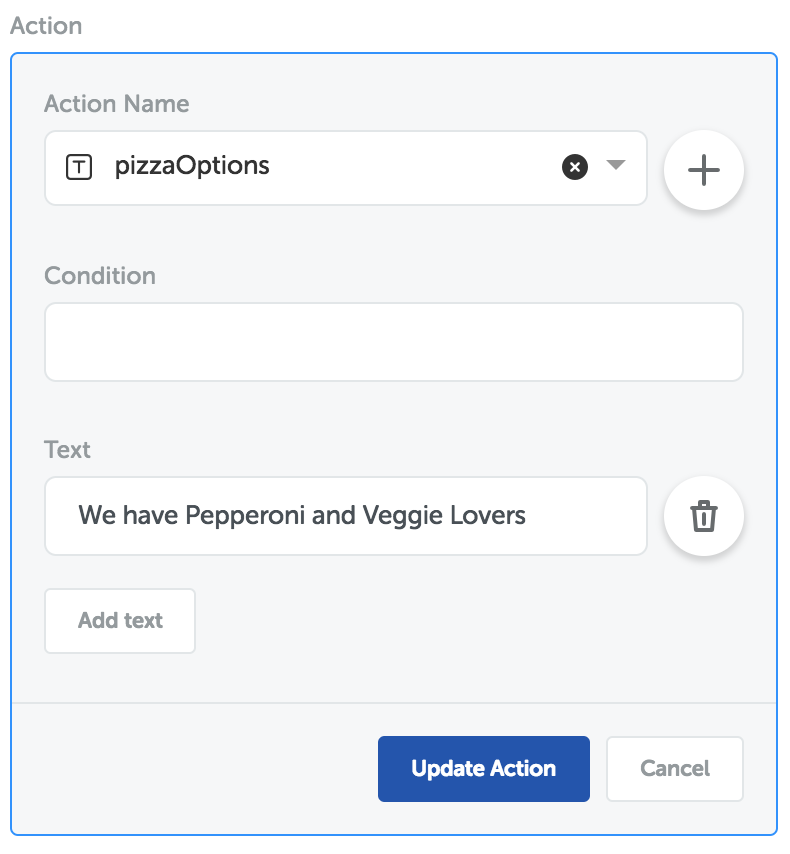
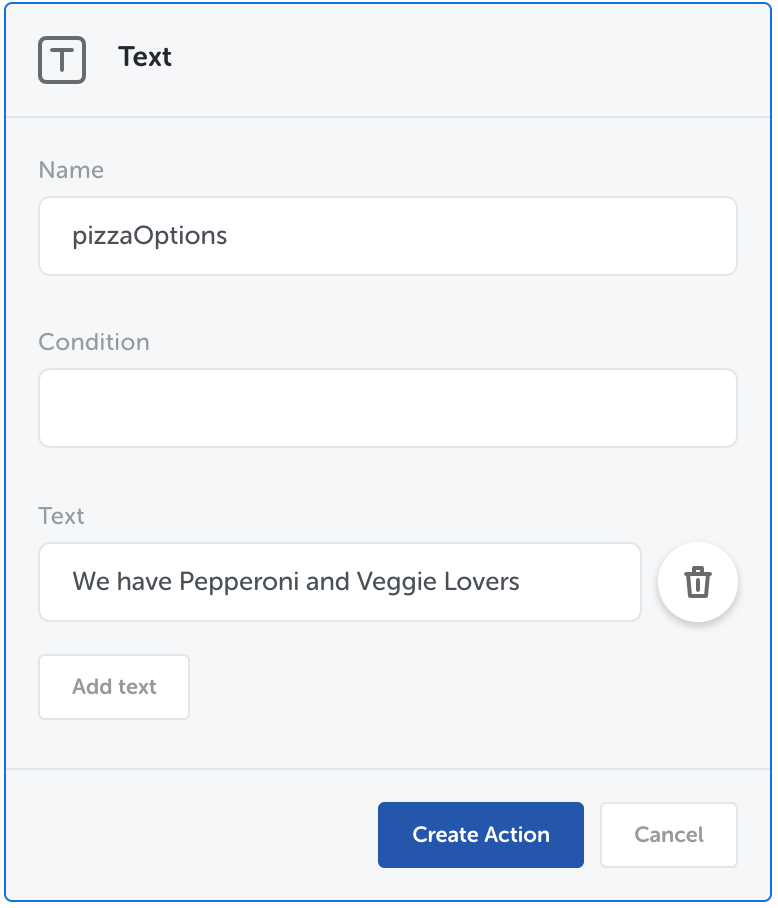
docs: Bot Studio tutorial update (2018-10-10) (#14)
* docs: NL Studio tutorial update

* docs(bot-studio): fixed images

* docs: fixed carousel sample

diff --git a/gatsby-config.js b/gatsby-config.js
@@ -69,7 +69,6 @@ module.exports = {
             resolve: 'gatsby-remark-images',
             options: {
               maxWidth: 720,
-              quality: 90,
               linkImagesToOriginal: false,
               wrapperStyle: 'margin-top: 1.5rem; margin-bottom: 1.5rem'
             }

diff --git a/docs/tutorial/bot-studio.md b/docs/tutorial/bot-studio.md
@@ -66,8 +66,7 @@ Next, click "Create Flow" button to create a flow and name it `fallback`. This f
 
 ### Create intent fallback
 
-After created `fallback` flow, we will enter intent by pressing the "Intents" tab on the sub-menu (picture below).
-Remove intent by pressing "more" symbol and click on "Delete" text. Next, we will create a new intent for `fallback`.
+After created `fallback` flow, we will enter intent by pressing the "Intents" tab on the sub-menu (picture below). Then, we will create a new intent for `fallback`.
 
 ![bse-10](/images/tutorial/bot-studio/bse-10.png)
 
@@ -81,7 +80,7 @@ So, your created intent will show as below
 
 ### Create a state init
 
-After the above step, we will create state named `init`. Delete previously provided state by pressing state and clicking "Delete". Then, click the "+" button at the bottom right of your page.
+After the above step, we will create state named `init`. Then, click the "+" button at the bottom right of your page.
 
 Fill state with name `init` on "Overview" tab and set a state to initial state and end state (as shown below). "Initial state" function is useful for making init state as first checked for flow and "end state" is useful for making init state as the last.
 
@@ -141,7 +140,7 @@ This intent has a text type and uses NLU we created. Select NLUs that created in
 
 #### Create a state init in the flow order
 
-Similar with `init` state in `fallback` flow, we must create `init` state as first state.
+Similar with `init` state in `fallback` flow, we must create `init` state as initial state.
 
 ![bse-21](/images/tutorial/bot-studio/bse-21.png)
 
@@ -161,7 +160,7 @@ To get started, click the "+" button on Conversation Flow sub-menu and named `sh
 
 #### Adding pizzaMenu and askOptions action to state showPizza
 
-On `showPizza` state, add a `pizzaOptions` action that displays information **text** about Pepperoni and Veggie Lovers menus.
+On `showPizza` state, create a `pizzaOptions` action that displays information **text** about Pepperoni and Veggie Lovers menus.
 
 ![bse-24](/images/tutorial/bot-studio/bse-24.png)
 
@@ -185,10 +184,14 @@ Fill carousel name with `pizzaMenu` and fill in content as below:
 Title: Pepperoni
 Text: This is the favorite of Peps
 Thumbnail Image Url: https://www.wikihow.com/images/thumb/a/a7/Make-Pepperoni-Pizza-Step-19-Version-2.jpg/aid1074004-v4-728px-Make-Pepperoni-Pizza-Step-19-Version-2.jpg.webp
-Actions :
-     Label: Pepperoni
-     Type: Postback
-     Payload: {"type":"pizza","pizza":"Pepperoni"}
+Actions:
+  Label: Pepperoni
+  Type: Postback
+  Payload:
+    - key: type
+      value: pizza
+    - key: pizza
+      value: Pepperoni
 ```
 
 ```
@@ -196,9 +199,13 @@ Title: Veggie Lovers
 Text: Vegie vegie stay healthy
 Thumbnail Image Url: https://www.calcuttaweb.com/store/image/data/calcutta/pizza/veggie-lovers-pizza-pihu-7.jpg
 Actions:
-     Label: Veggie Lovers
-     Type: Postback
-     Payload: {"type":"pizza","pizza":"Veggie Lovers"}
+  Label: Veggie Lovers
+  Type: Postback
+  Payload:
+    - key: type
+      value: pizza
+    - key: pizza
+      value: Veggie Lovers
 ```
 
 ![bse-28](/images/tutorial/bot-studio/bse-28.png)
@@ -335,13 +342,13 @@ First of all, we have to create a deployment first. Find the "Deployment" menu o
 
 ![bse-52](/images/tutorial/bot-studio/bse-52.png)
 
-Make a deployment with `pizzaChat` name and select version 0.0.1. You can also follow the picture below
+Make a deployment with `pizzaChat` name and select version 0.0.2. You can also follow the picture below
 
 ![bse-53](/images/tutorial/bot-studio/bse-53.png)
 
 ### Register LINE account
 
-To sign up for a LINE account, you must signed in [LINE developer console](https://developers.line.me/console/)
+To sign up for a LINE developer account, you have to create LINE social media account by [installing LINE application, either desktop or mobile app](https://line.me/en/download). After you successfully registered, signed in to [LINE developer console](https://developers.line.me/console/)
 
 ![bse-54](/images/tutorial/bot-studio/bse-54.png)
 
@@ -484,5 +491,3 @@ Next, go to the sub-menu "Conversation Flows" and click on the tab "Intents". Se
 Click "Update" to save the updated intent.
 
 Next, you have to publish this NLStudio integration and replace the version on "Deployment" menu to try directly on your device.
-
----
